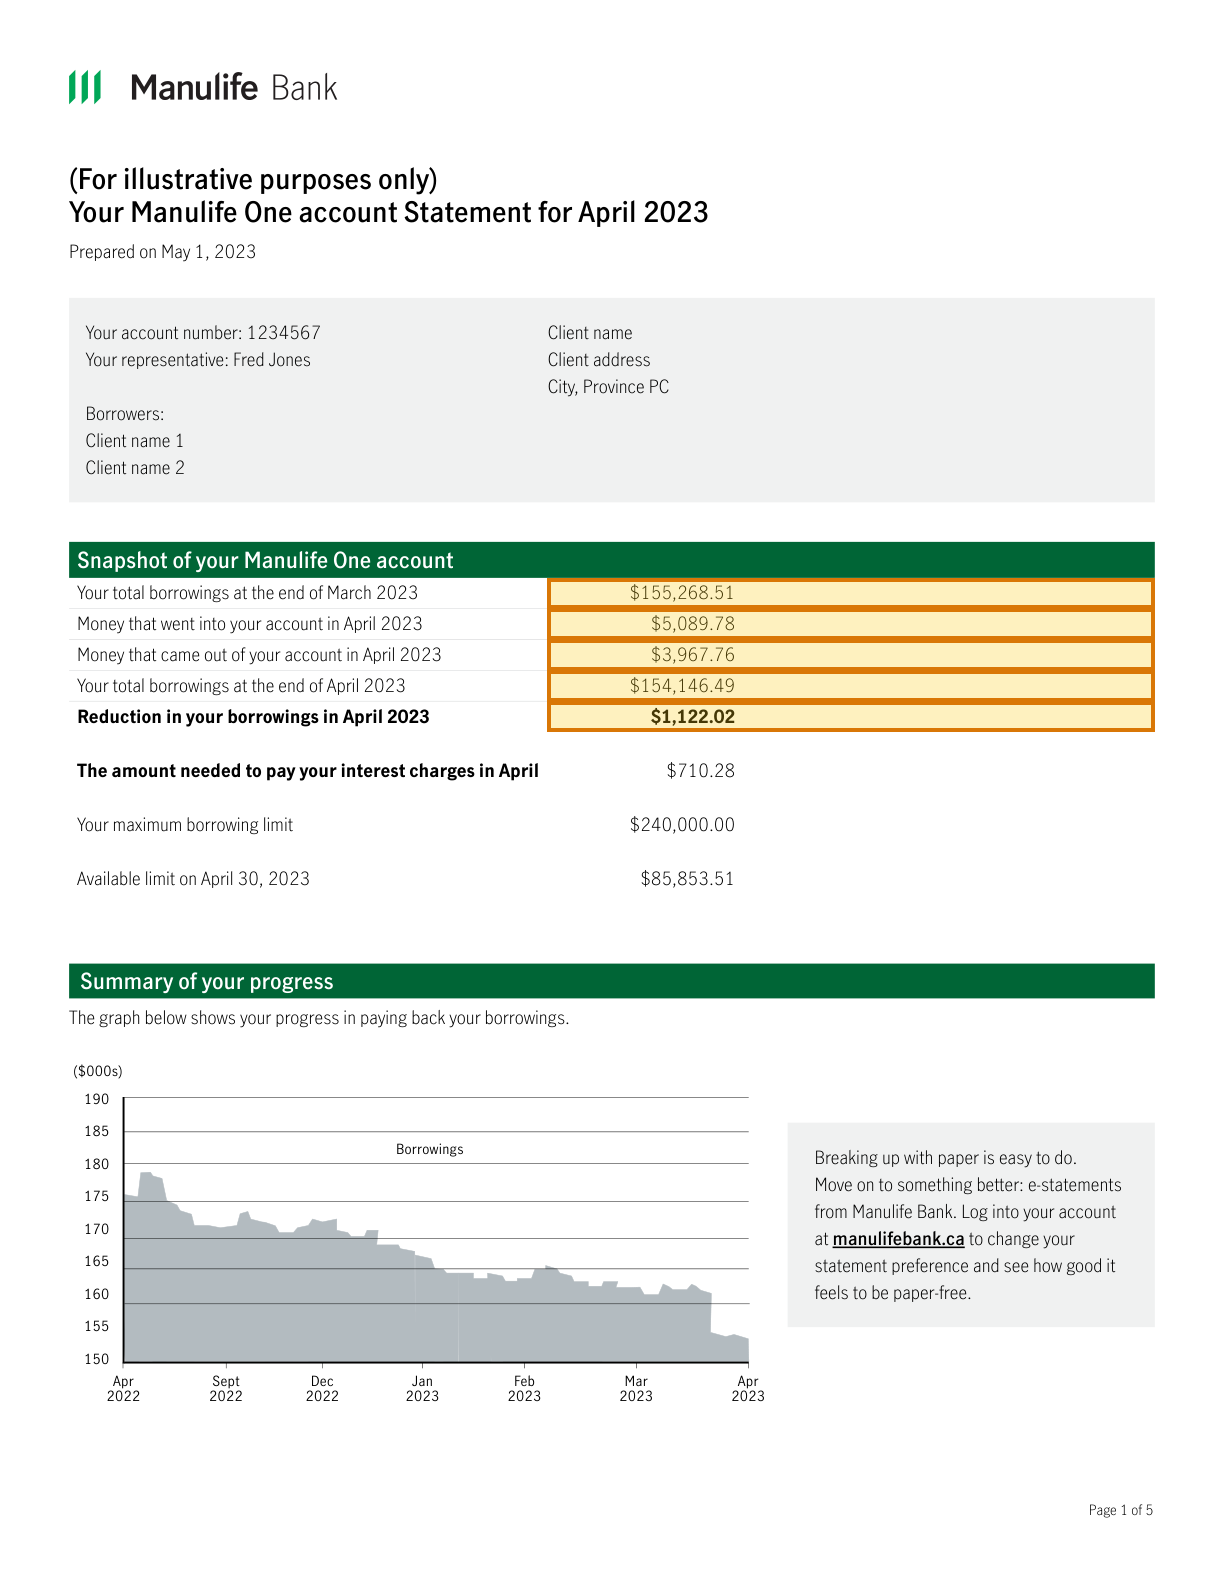
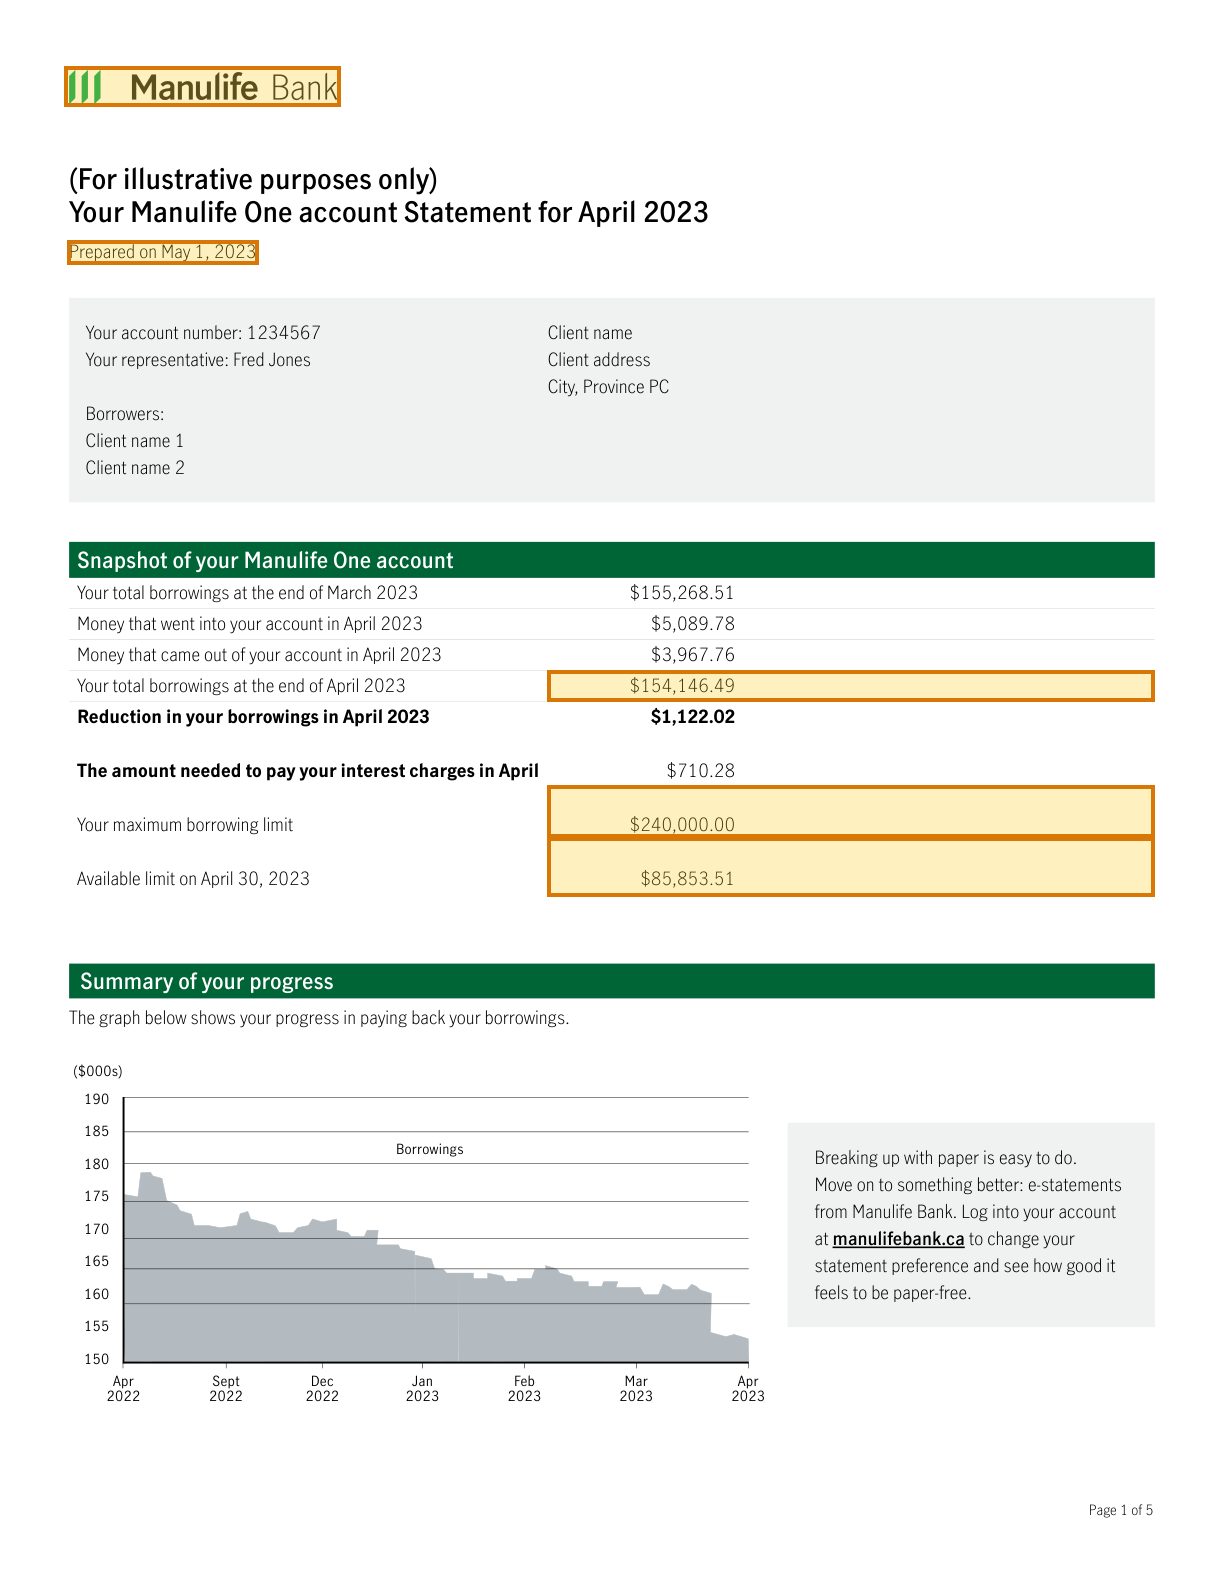
Feature the lending fields on the HELOC statement
Institution, maximum borrowing limit, available credit, statement date
and outstanding balance, at the document owner's request, in place of
the snapshot's movement for the month. No re-extraction needed.

diff --git a/document-types/collection/heloc-statement/README.md b/document-types/collection/heloc-statement/README.md
@@ -52,21 +52,32 @@ The collection's first **HELOC statement**:
   fixed-rate, two variable), with interest moving between them.
 - **Summaries that should agree with the detail,** and do not quite (see below).
 
-## Featured fields: the month's snapshot
+## Featured fields: what a lender verifies
 
-All on page 1. The request named no page or fields, so these were chosen:
+All on page 1. At the document owner's request, these are the fields a lender reads from
+a HELOC statement:
 
 | Field | Value |
 |---|---|
-| Borrowings at start of month | $155,268.51 |
-| Money in | $5,089.78 |
-| Money out | $3,967.76 |
-| Borrowings at end of month | $154,146.49 |
-| Reduction in borrowings | $1,122.02 |
+| Institution | Manulife Bank |
+| Maximum borrowing limit | $240,000.00 |
+| Available credit | $85,853.51 |
+| Statement date | 2023-05-01 |
+| Outstanding balance | $154,146.49 |
 
-The month's movement on the account, as one story that reconciles: $155,268.51 plus
-$3,967.76 out, less $5,089.78 in, is $154,146.49, a reduction of $1,122.02. Every value
-sits in its own ruled table cell, and every box lands on it.
+The outstanding balance is the total borrowings at the end of the month, across the main
+account and all three sub-accounts. All five were already in the schema, so extraction
+was not re-run.
+
+**The statement date is flagged, and correct.** It is extracted as the ISO date
+2023-05-01 and grounds to the printed "Prepared on May 1, 2023", so `build_images.py`
+warns that the value is not in the boxed text. It is the same date in another format; the
+crop was checked by eye. The borrowing limit and available credit boxes are taller than
+their values because those table cells carry extra space above the text.
+
+An earlier version featured the snapshot's movement for the month instead, which
+reconciles: $155,268.51 plus $3,967.76 out, less $5,089.78 in, is $154,146.49, a
+reduction of $1,122.02.
 
 ## What it surfaced
 
